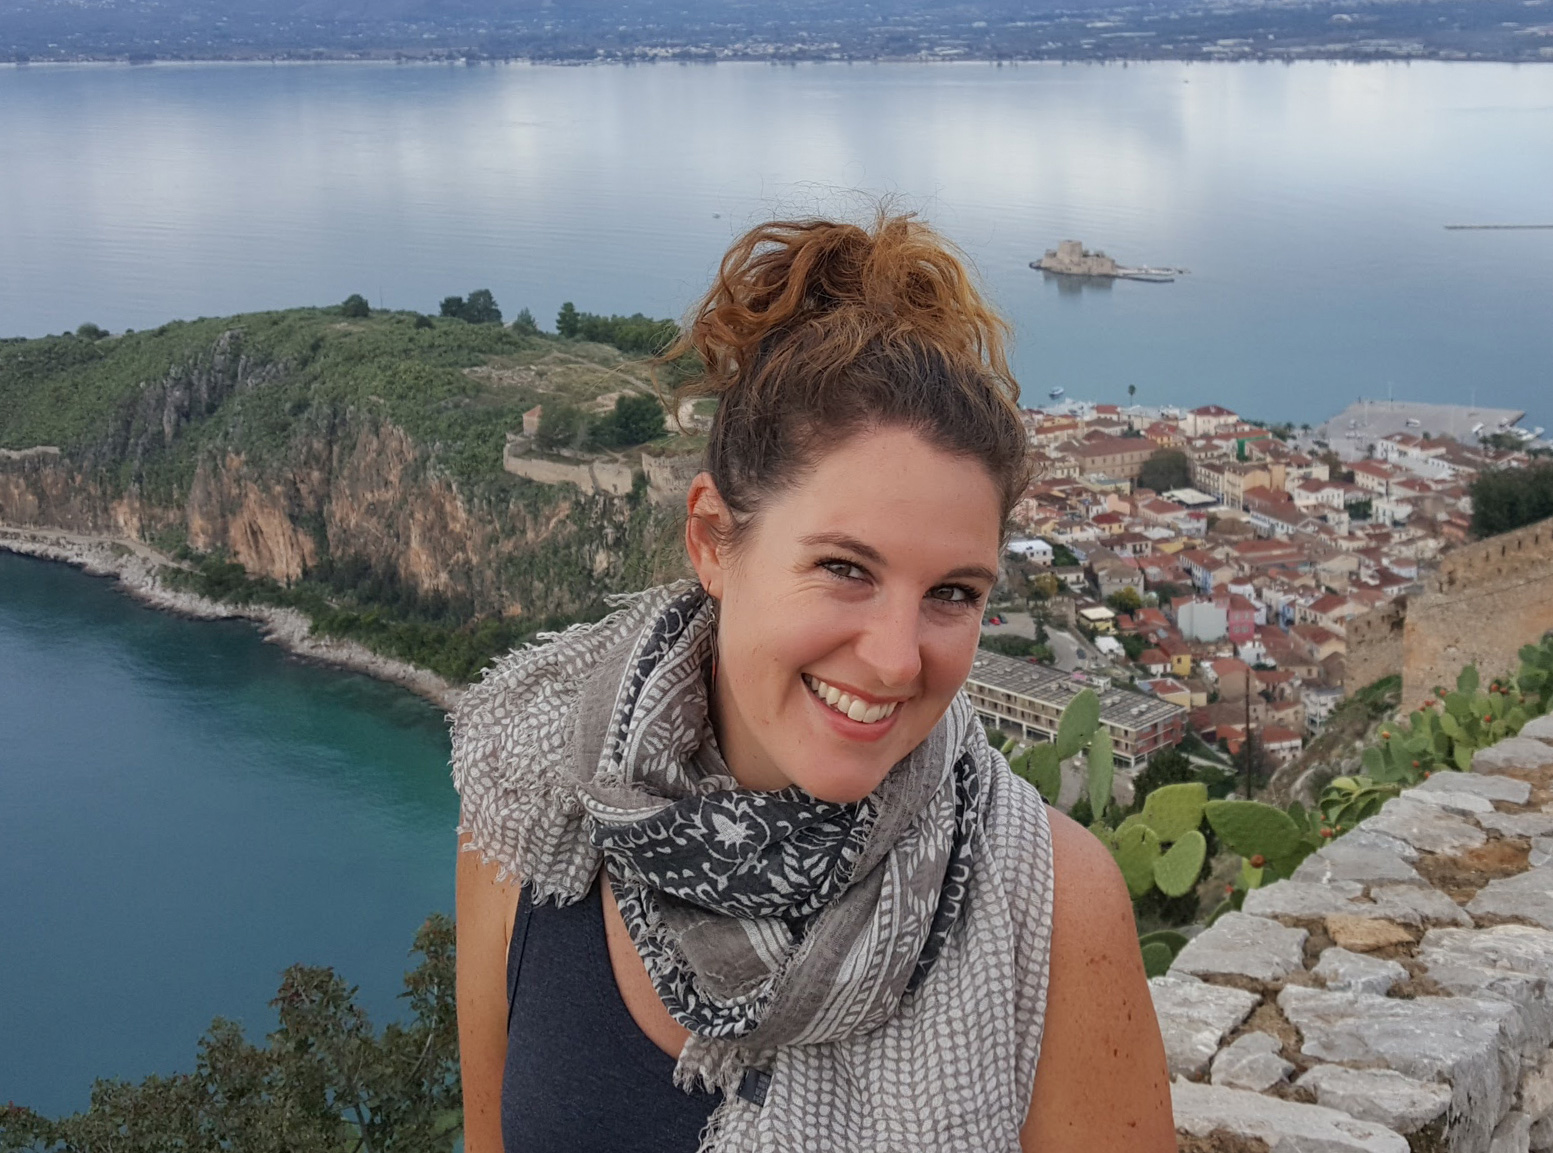
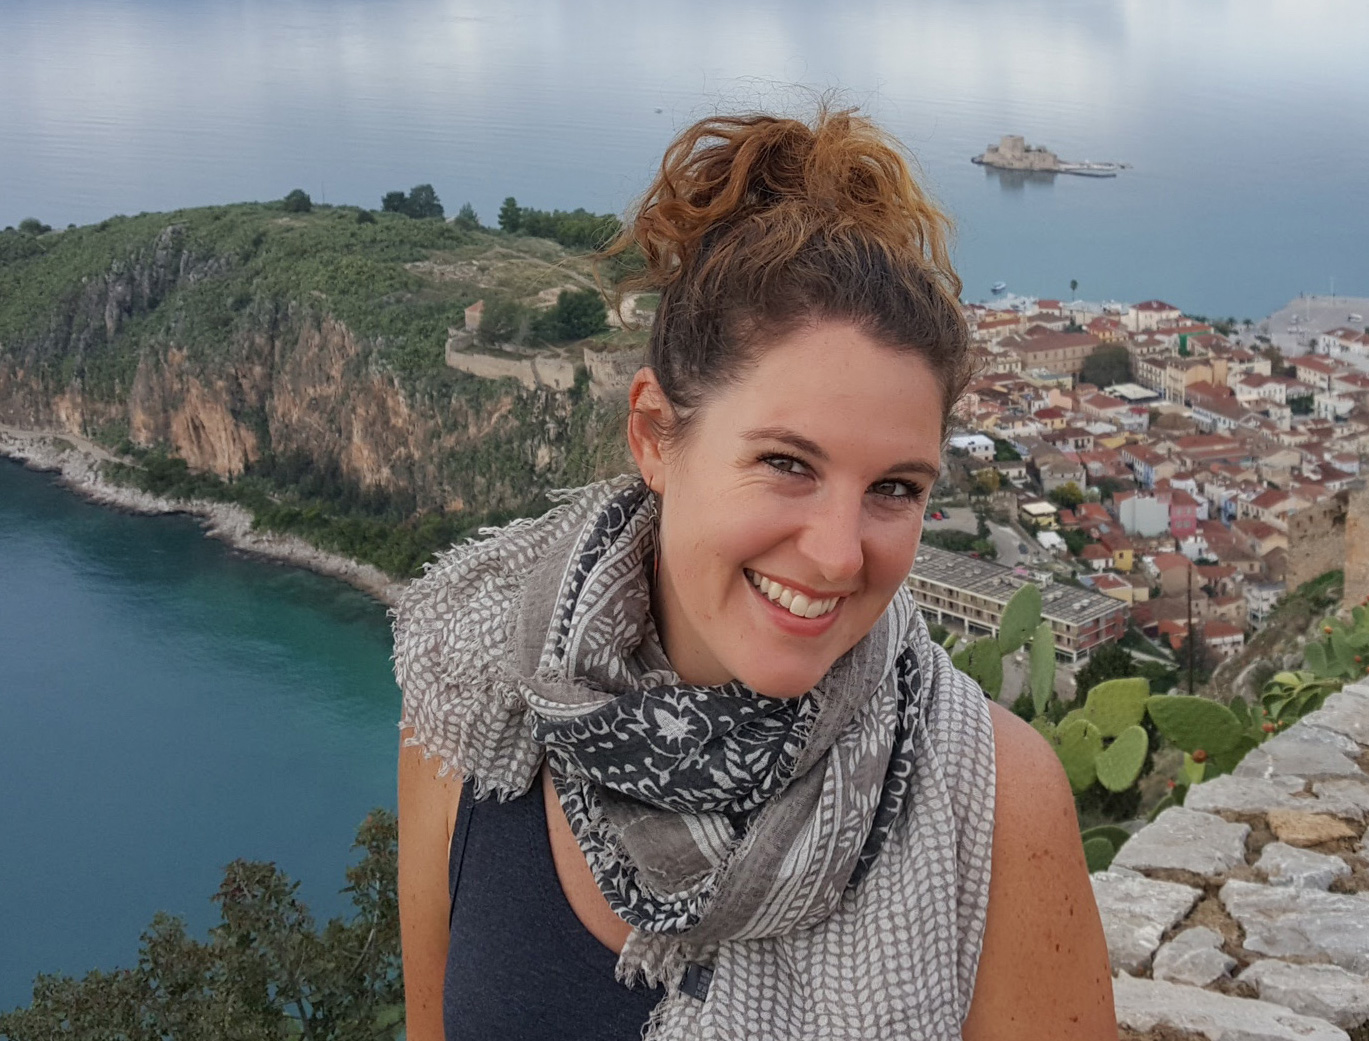
salesTeam modal image size

diff --git a/client/src/pages/aboutus.js b/client/src/pages/aboutus.js
@@ -32,7 +32,7 @@ class AboutUs extends React.Component {
         return (
             <React.Fragment>
 
-                <Segment style={{ padding: '8em 0em' }} vertical>
+                <Segment style={{ padding: '6em 0em' }} vertical>
                     <Grid container stackable verticalAlign='middle'>
                         <Grid.Row>
                             <Grid.Column width={8}>
@@ -55,13 +55,13 @@ class AboutUs extends React.Component {
                             </Grid.Column>
                         </Grid.Row>
 
-                        <Grid.Row>
+                        {/* <Grid.Row>
                             <Grid.Column textAlign='center'>
                                 <Button className="seeAllWinesBtn" size='small'>
                                     <p className="seeAllWinesText">Read More</p>
                                 </Button>
                             </Grid.Column>
-                        </Grid.Row>
+                        </Grid.Row> */}
                     </Grid>
 
                     {/* // testing section here */}
@@ -86,13 +86,13 @@ class AboutUs extends React.Component {
 
                                 </Grid.Column>
                             </Grid.Row>
-                            <Grid.Row>
+                            {/* <Grid.Row>
                                 <Grid.Column textAlign='center'>
                                 <Button className="seeAllWinesBtn" size='small'>
                                     <p className="seeAllWinesText">Read More</p>
                                 </Button>
                                 </Grid.Column>
-                            </Grid.Row>
+                            </Grid.Row> */}
                         </Grid>
                     </Segment>
 

diff --git a/client/src/components/SalesTeam/Modal/Modal.js b/client/src/components/SalesTeam/Modal/Modal.js
@@ -1,6 +1,6 @@
 import React from 'react';
 import { Button, Header, Image, Modal } from 'semantic-ui-react';
-
+import "./Modal.css";
 
 const SalesTeamModal = props => {
 
@@ -19,7 +19,7 @@ const SalesTeamModal = props => {
     >
       <Modal.Header>{name}</Modal.Header>
       <Modal.Content image>
-        <Image wrapped size='medium' src={image}/>
+        <Image className="modalImageSize" src={image}/>
         <Modal.Description>
           <Header>{`${email} • ${phone}`}</Header>
           <p>

diff --git a/client/src/components/SalesTeam/Modal/Modal.css b/client/src/components/SalesTeam/Modal/Modal.css
@@ -1,0 +1,6 @@
+.modalImageSize {
+    display: block;
+    height: 250px;
+    width: 250px;
+    
+}
